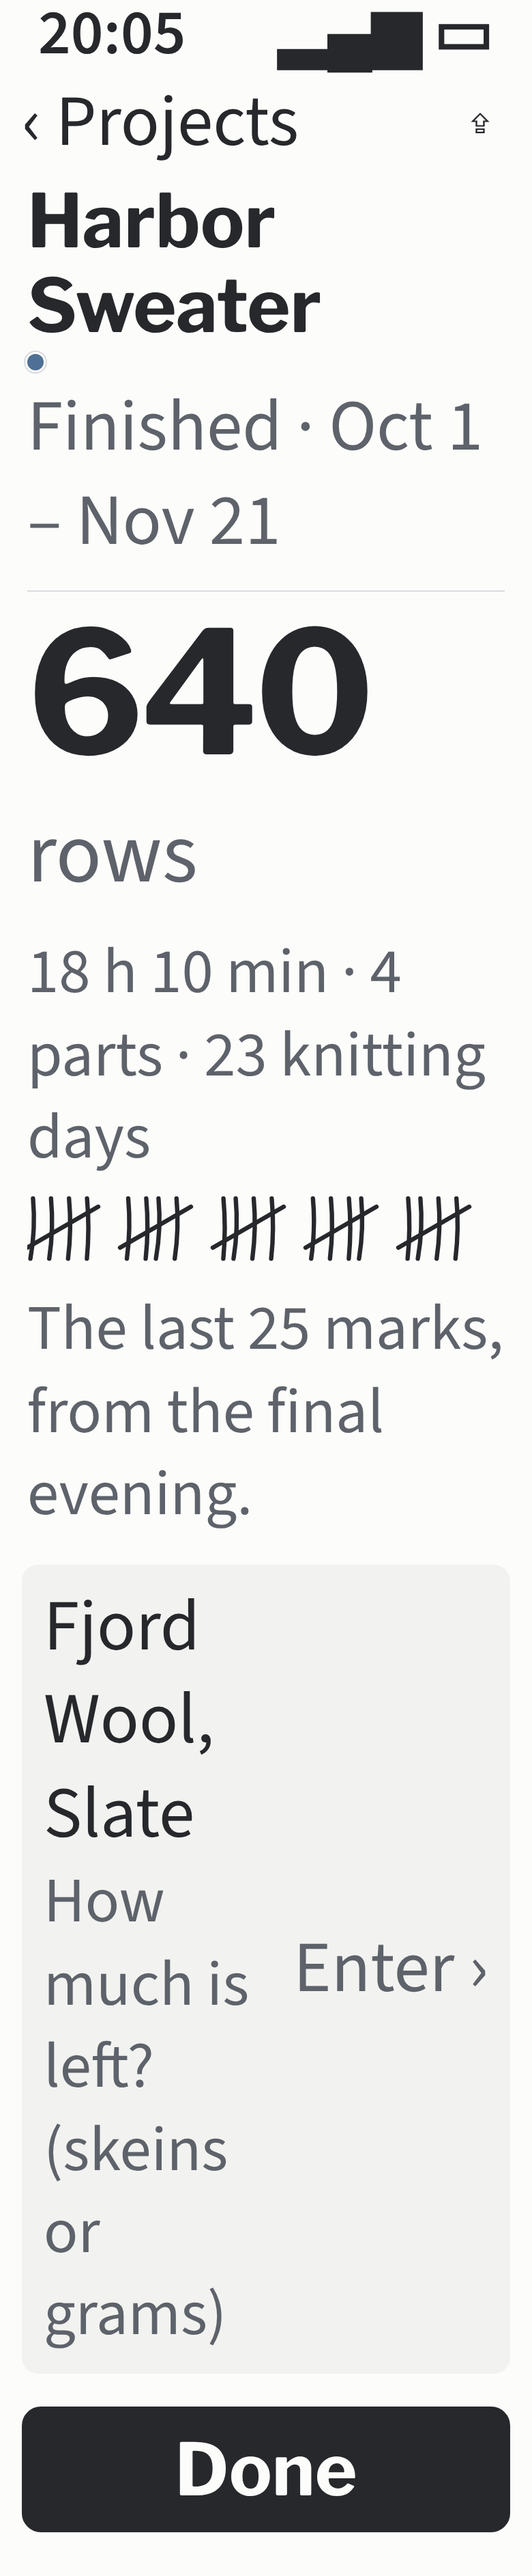
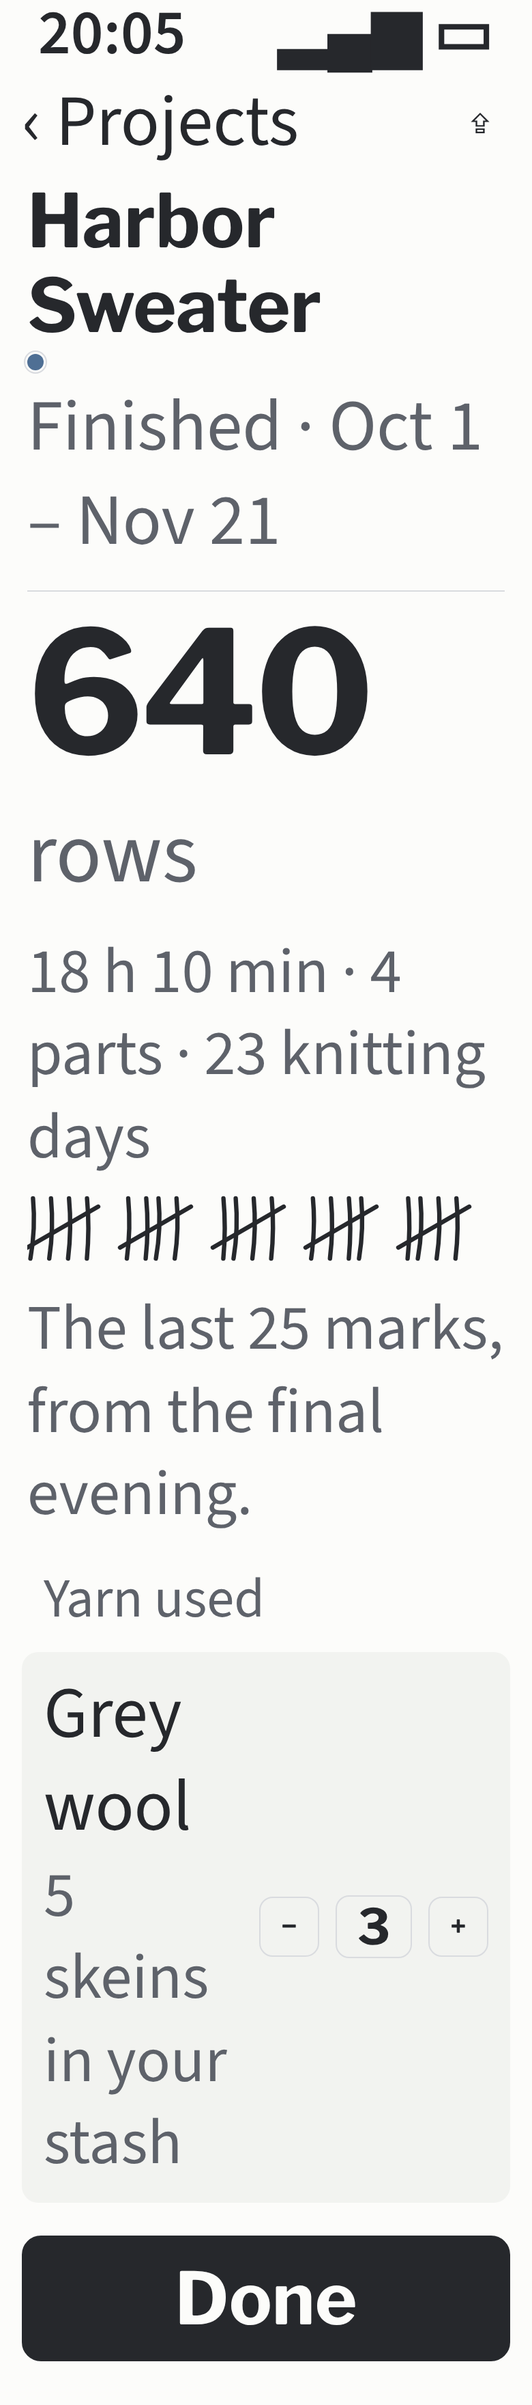
04 fix NZ-08-P2-04 (2): zużycie włóczki w motkach przy ukończeniu; ponad zapas — przyjęte, zapas 0, linia informacji (P-126 (2a))
Makieta ukonczenie: „Yarn used” z krokowcem zamiast „How much is left?”
(zgodnie z BR-ZAP-002 i projekt_wloczka.zuzyto_motki); nowy stan
ukonczenie-ponad-zapas; 24 zrzuty (12 zmienionych = przed/po). Klucze
ukonczenie.*; macierz stanów. Kontrola: pozycja 2 OK.

Claude-Session: https://claude.ai/code/session_011fcNUahHL4CMN3T2xW5vix

diff --git a/docs/design/ekrany.html b/docs/design/ekrany.html
@@ -215,7 +215,7 @@ h1 { font: 700 calc(30px * var(--dt-tytul)) / 1.15 var(--tytul); margin: 0; }
   <div class="pasek-narzedzi"><span>◷<br>History</span><span>⚒<br>Tools</span><span>⚙<br>Settings</span></div>
 </main>
 
-<!-- 6. Chwila ukończenia (U-9: ukończenie → zużycie włóczki → karta; BR-PRJ-015; prośba o ocenę po zamknięciu karty, BR-DAN-012) -->
+<!-- 6. Chwila ukończenia (U-9: ukończenie → zużycie włóczki w motkach, BR-ZAP-002, P-126 (2a) → karta; BR-PRJ-015; prośba o ocenę po zamknięciu karty, BR-DAN-012) -->
 <main data-ekran="ukonczenie">
   <div class="status"><span>20:05</span><span>▂▄▆ ▭</span></div>
   <div class="nav"><a href="#">‹ Projects</a><div class="ikony"><span class="ikona" role="button" aria-label="Share">⇪</span></div></div>
@@ -226,8 +226,9 @@ h1 { font: 700 calc(30px * var(--dt-tytul)) / 1.15 var(--tytul); margin: 0; }
     <div class="kreski" aria-hidden="true"><svg class="tally" data-n="25" viewBox="0 0 350 64"></svg></div>
     <p class="podpis">The last 25 marks, from the final evening.</p>
   </div>
-  <div class="grupa" style="margin-top:20px">
-    <div class="el"><div class="tx">Fjord Wool, Slate<small>How much is left? (skeins or grams)</small></div><span role="button" aria-label="Enter yarn left over for Fjord Wool, Slate" style="color:var(--olowek)">Enter ›</span></div>
+  <div class="naglowek-grupy">Yarn used</div>
+  <div class="grupa">
+    <div class="el"><div class="tx">Grey wool<small>5 skeins in your stash</small></div><span class="krok" role="button" aria-label="One skein less">−</span><span class="pole" role="spinbutton" aria-label="Skeins of Grey wool used" aria-valuenow="3">3</span><span class="krok" role="button" aria-label="One skein more">+</span></div>
   </div>
   <div class="spacer"></div>
   <div style="padding: 0 16px 32px"><button class="przycisk-pelny">Done</button></div>
@@ -292,6 +293,20 @@ h1 { font: 700 calc(30px * var(--dt-tytul)) / 1.15 var(--tytul); margin: 0; }
     <div class="tresc-arkusza"><div class="szukaj" style="margin:12px 0 0;color:var(--grafit);border:1.5px solid var(--m-obrys)" role="textbox" aria-label="Project name">Socks for Ola|</div>
     <p class="podpis">The 12 rows and their history stay with this project.</p></div>
   </div>
+</main>
+
+<!-- 6b. Zużycie ponad zapas (BR-ZAP-002, P-126 (2a)): przyjęte, zapas schodzi do 0, jedna linia informacji; „Done” działa -->
+<main data-ekran="ukonczenie-ponad-zapas">
+  <div class="status"><span>20:05</span><span>▂▄▆ ▭</span></div>
+  <div class="nav"><a href="#">‹ Projects</a><div class="ikony"><span class="ikona" role="button" aria-label="Share">⇪</span></div></div>
+  <div class="tytul"><h1>Harbor Sweater</h1><p class="pod"><span class="kropka"></span>Finished · Oct 1 – Nov 21</p></div>
+  <div class="naglowek-grupy">Yarn used</div>
+  <div class="grupa">
+    <div class="el"><div class="tx">Grey wool<small>2 skeins in your stash</small></div><span class="krok" role="button" aria-label="One skein less">−</span><span class="pole" role="spinbutton" aria-label="Skeins of Grey wool used" aria-valuenow="3">3</span><span class="krok" role="button" aria-label="One skein more">+</span></div>
+  </div>
+  <p class="uwaga" role="status"><span class="znak" aria-hidden="true">i</span><span>That’s more than the 2 skeins in your stash. Your stash will show 0. <a href="#">Edit stash</a></span></p>
+  <div class="spacer"></div>
+  <div style="padding: 0 16px 32px"><button class="przycisk-pelny">Done</button></div>
 </main>
 
 <section class="uwagi">
